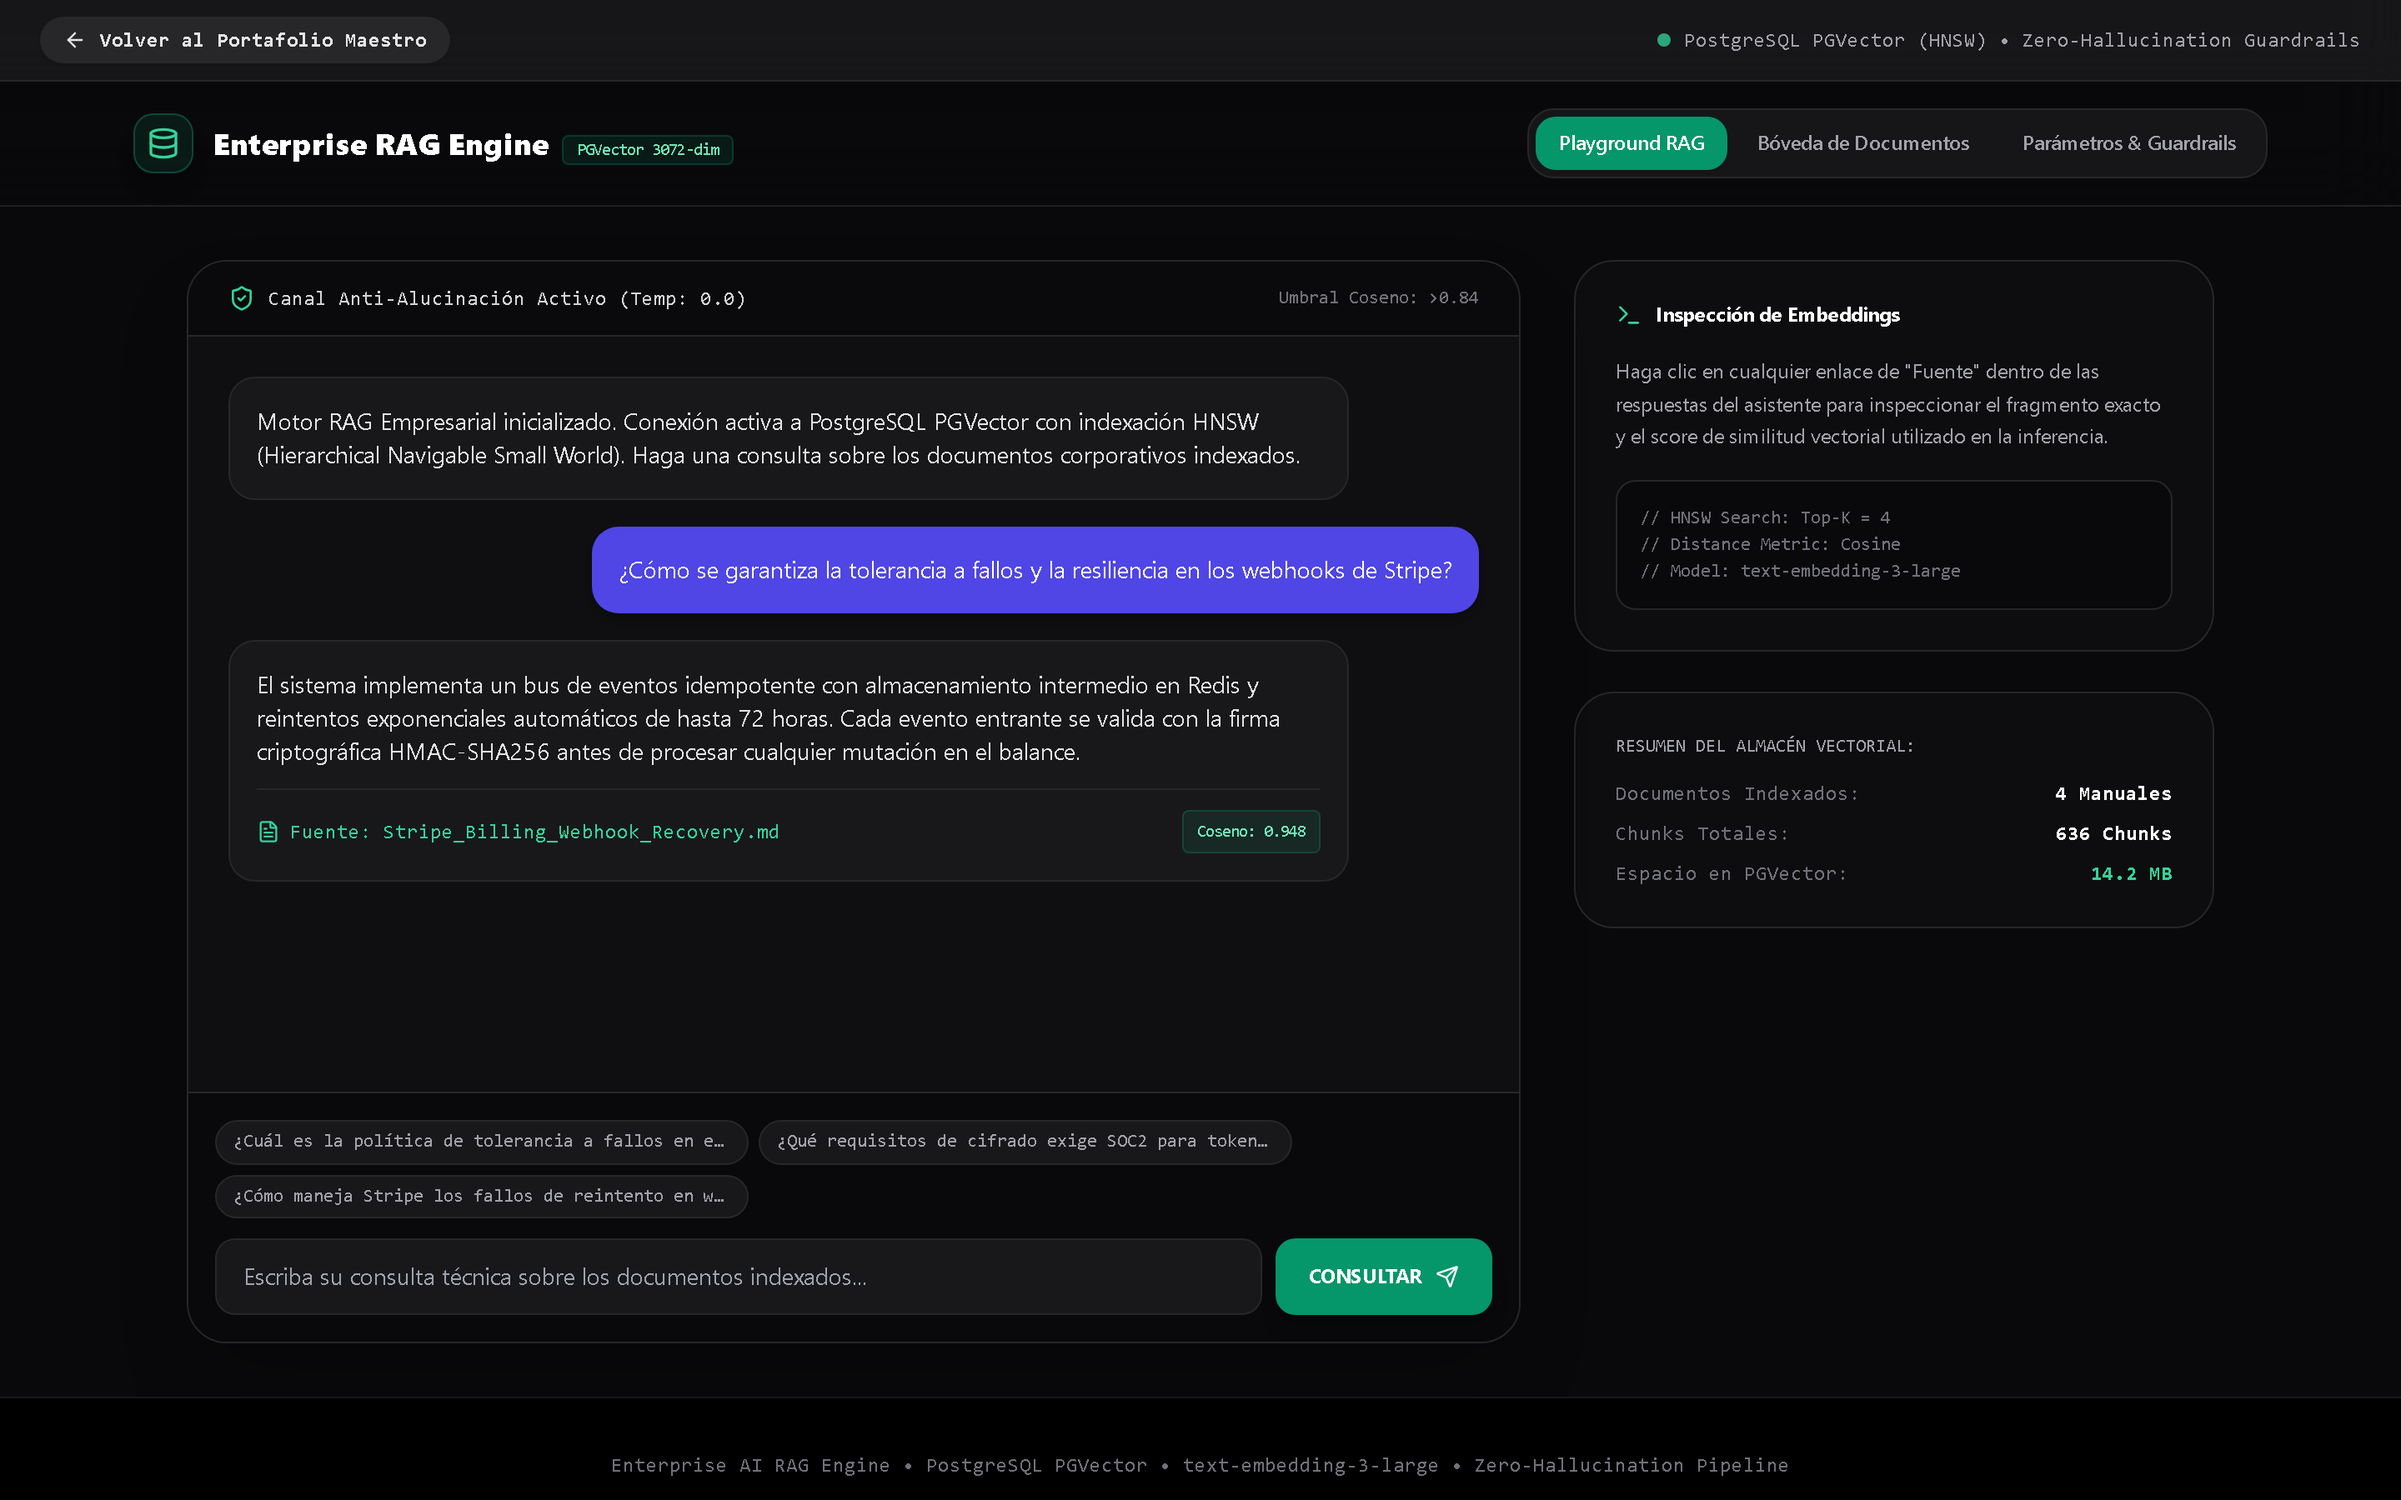
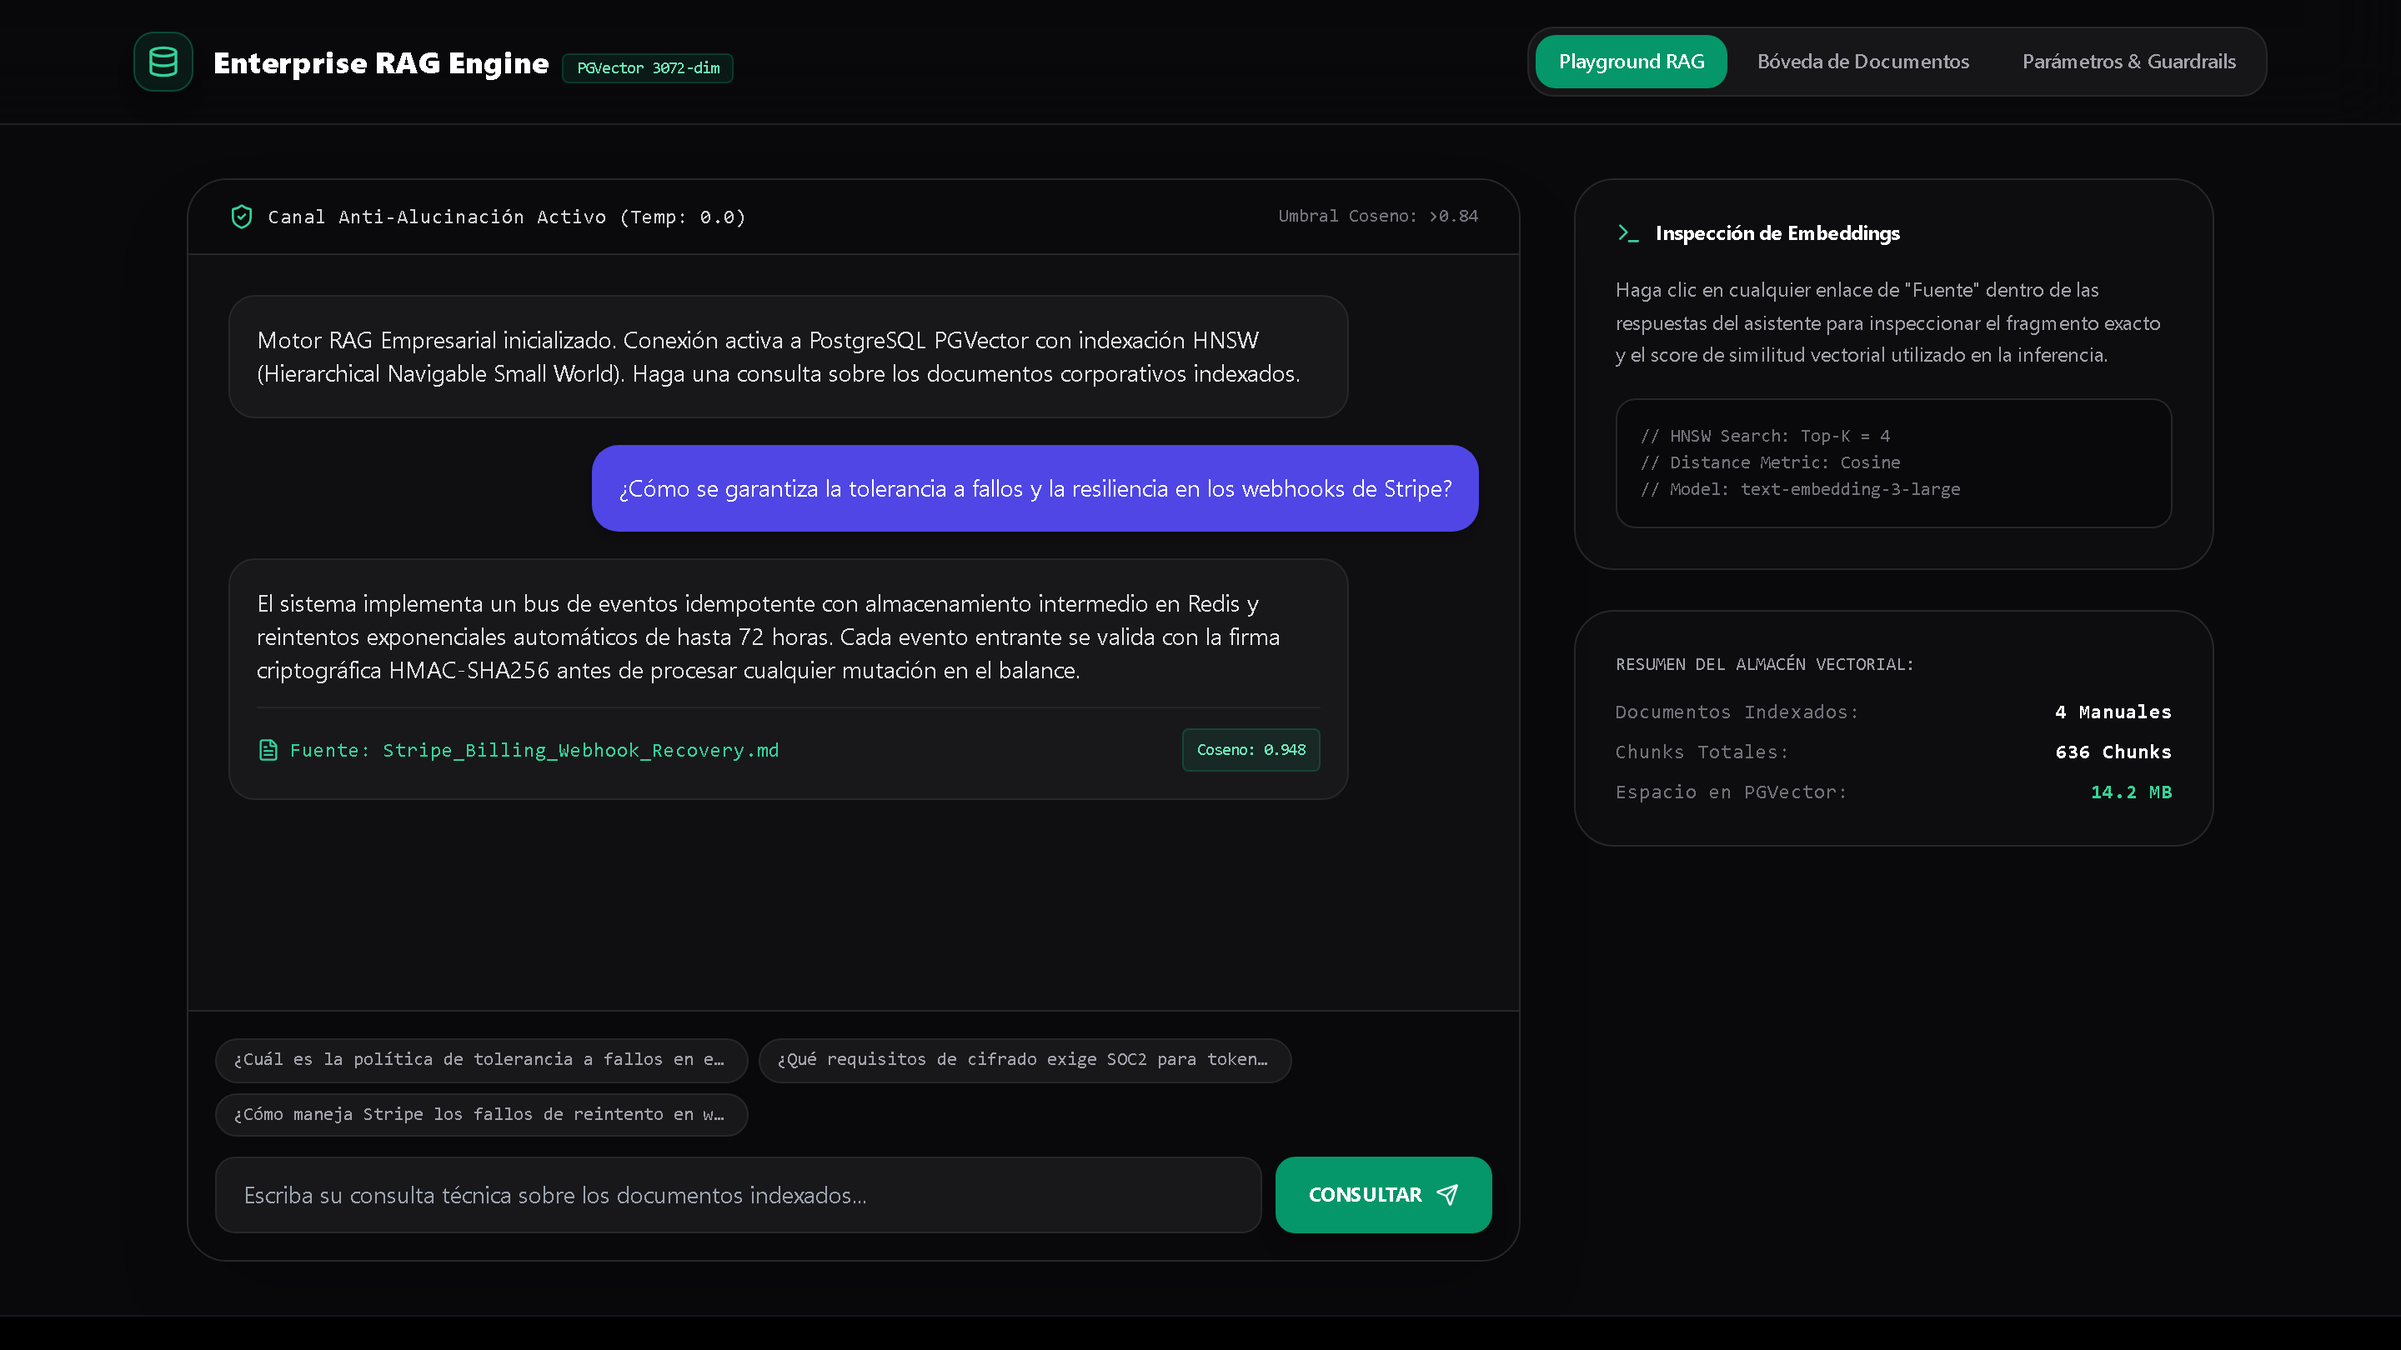
fix(portfolio): crop legacy back-button from syntrosaas/rag screenshots and eliminate mobile RAF lag in Jarvis

diff --git a/src/components/project-layouts/CommandCenterLayout.tsx b/src/components/project-layouts/CommandCenterLayout.tsx
@@ -21,28 +21,6 @@ export function CommandCenterLayout({ project }: { project: Project }) {
   const [mousePos, setMousePos] = useState({ x: 0.5, y: 0.5 });
   const containerRef = useRef<HTMLDivElement>(null);
 
-  useEffect(() => {
-    let animationFrameId: number;
-    let startTime = Date.now();
-    
-    const animate = () => {
-      if (window.innerWidth < 1024) {
-        const elapsed = Date.now() - startTime;
-        const speed = 0.0008;
-        setMousePos({
-          x: 0.5 + Math.sin(elapsed * speed) * 0.2,
-          y: 0.5 + Math.cos(elapsed * speed * 1.2) * 0.2
-        });
-      }
-      animationFrameId = requestAnimationFrame(animate);
-    };
-    animate();
-    
-    return () => {
-      cancelAnimationFrame(animationFrameId);
-    };
-  }, []);
-
   // Boot sequence logic
   useEffect(() => {
     const lines = lang === 'es' ? [
@@ -133,7 +111,7 @@ export function CommandCenterLayout({ project }: { project: Project }) {
         {/* ========================================================== */}
         <section id="command-interactive" className="lg:hidden relative z-10 w-full px-4 pt-4 pb-12">
           {/* Main Mobile Card: Jarvis HUD Window */}
-          <div className="relative w-full rounded-2xl overflow-hidden border border-blue-500/30 bg-[#070d1e]/90 shadow-[0_0_50px_rgba(56,189,248,0.2)] backdrop-blur-xl">
+          <div className="relative w-full rounded-2xl overflow-hidden border border-blue-500/30 bg-[#070d1e]/90 shadow-[0_0_30px_rgba(56,189,248,0.15)] backdrop-blur-md lg:backdrop-blur-xl">
             {/* Window Header */}
             <div className="h-10 bg-slate-900/90 border-b border-blue-500/20 px-4 flex items-center justify-between">
               <div className="flex items-center gap-2">
